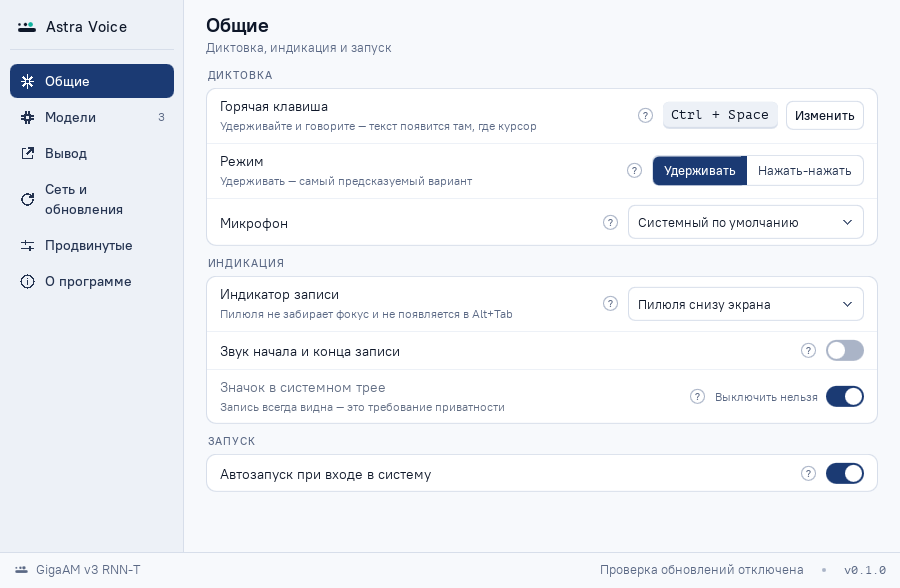
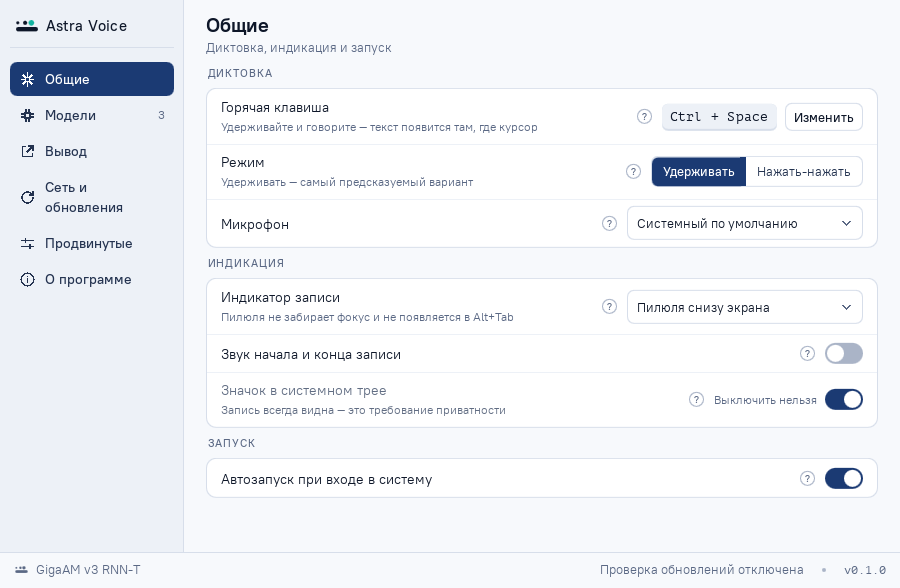
M1: карточки по border-box (последняя строка не режется, низ колонки 497), знак сайдбара по геометрии логотипа, CAPS-зазор; скриншоты; HEARTBEAT

diff --git a/qml/components/BrandMark.qml b/qml/components/BrandMark.qml
@@ -1,61 +1,59 @@
-// Знак Astra Voice: три точки и строка.
-// Геометрия — мастер 22 px (design/spec.md §9.1, design/tokens.json component.tray.geometry-22):
-// точки r 1.2185 / 1.6815 / 2.3151 на cy 8.4849, строка 2,12 18×4 rx 2.
-// Правило бренда: цвет несёт ТОЛЬКО третья точка; строка и точки 1–2 — цвет текста.
+// Знак Astra Voice: три точки и строка. Правило бренда — цвет несёт ТОЛЬКО третья точка.
+//
+// Две РАЗНЫЕ геометрии, их нельзя путать (обе из design/mockups/directions/_base.py):
+//   logo — знак в интерфейсе, `mark()`: viewBox 100 × 51.7238, ширина знака = вся ширина;
+//   tray — иконка состояния, `tray()` и design/spec.md §9.1: viewBox 22 × 22 со своей
+//          мастер-геометрией (уменьшать логотип до 16–22 px нельзя, радиусы «плывут»).
 import QtQuick 2.15
 
 Item {
     id: root
 
     property real size: 22
+    property bool tray: false
     property color color: "#000000"
-    // Цвет третьей точки: состояние (слушаю/распознаю/готово/ошибка). По умолчанию — как весь знак.
+    // Третья точка: состояние (слушаю / распознаю / готово / ошибка) либо акцент бренда.
     property color accentColor: root.color
 
-    readonly property real k: size / 22
+    readonly property real vbW: tray ? 22 : 100
+    readonly property real vbH: tray ? 22 : 51.7238
+    readonly property real k: size / vbW
+    // cx, cy, r в координатах viewBox
+    readonly property var dots: tray
+        ? [[3.4622, 8.4849, 1.2185], [9.4694, 8.4849, 1.6815], [14.5627, 8.4849, 2.3151]]
+        : [[8.1233, 12.8619, 6.7694], [41.4966, 12.8619, 9.3418], [69.7928, 12.8619, 12.8619]]
+    // x, y, w, h, rx
+    readonly property var bar: tray ? [2, 12, 18, 4, 2] : [0, 31.7238, 100, 20, 10]
 
     implicitWidth: size
-    implicitHeight: size
-    width: size
-    height: size
+    implicitHeight: vbH * k
+    width: implicitWidth
+    height: implicitHeight
 
-    Rectangle {
-        x: (3.4622 - 1.2185) * root.k
-        y: (8.4849 - 1.2185) * root.k
-        width: 2 * 1.2185 * root.k
-        height: width
-        radius: width / 2
-        color: root.color
-        antialiasing: true
+    Repeater {
+        model: root.dots
+
+        Rectangle {
+            required property int index
+            required property var modelData
+
+            x: (modelData[0] - modelData[2]) * root.k
+            y: (modelData[1] - modelData[2]) * root.k
+            width: 2 * modelData[2] * root.k
+            height: width
+            radius: width / 2
+            antialiasing: true
+            color: index === 2 ? root.accentColor : root.color
+        }
     }
 
     Rectangle {
-        x: (9.4694 - 1.6815) * root.k
-        y: (8.4849 - 1.6815) * root.k
-        width: 2 * 1.6815 * root.k
-        height: width
-        radius: width / 2
+        x: root.bar[0] * root.k
+        y: root.bar[1] * root.k
+        width: root.bar[2] * root.k
+        height: root.bar[3] * root.k
+        radius: root.bar[4] * root.k
+        antialiasing: true
         color: root.color
-        antialiasing: true
-    }
-
-    Rectangle {
-        x: (14.5627 - 2.3151) * root.k
-        y: (8.4849 - 2.3151) * root.k
-        width: 2 * 2.3151 * root.k
-        height: width
-        radius: width / 2
-        color: root.accentColor
-        antialiasing: true
-    }
-
-    Rectangle {
-        x: 2 * root.k
-        y: 12 * root.k
-        width: 18 * root.k
-        height: 4 * root.k
-        radius: 2 * root.k
-        color: root.color
-        antialiasing: true
     }
 }

diff --git a/qml/components/SettingGroup.qml b/qml/components/SettingGroup.qml
@@ -21,7 +21,6 @@ Column {
         font.capitalization: Font.AllUppercase
         font.letterSpacing: Theme.fontGroupCapsTracking * Theme.fontGroupCapsSize
         renderType: Text.NativeRendering
-        verticalAlignment: Text.AlignVCenter
         leftPadding: 2  // §3.1: отступ заголовка группы 0 0 5 2
         lineHeight: Math.round(Theme.fontGroupCapsSize * Theme.fontGroupCapsLineHeight)
         lineHeightMode: Text.FixedHeight
@@ -33,8 +32,11 @@ Column {
 
         property alias rowData: column.data
 
+        // Макет считает карточку по border-box (`*{box-sizing:border-box}`): рамка 1 px
+        // лежит ВНУТРИ габарита, строки живут в оставшихся 670 × N. Без этого запаса
+        // рамка съедала по пикселю у первой и последней строки.
         width: root.width
-        height: Math.round(column.implicitHeight)
+        height: Math.round(column.implicitHeight) + Theme.cardBorder * 2
         radius: Theme.cardRadius
         color: Theme.bgSurface
         antialiasing: true
@@ -42,8 +44,9 @@ Column {
 
         Column {
             id: column
-            width: parent.width
-            anchors.centerIn: parent
+            x: Theme.cardBorder
+            y: Theme.cardBorder
+            width: parent.width - Theme.cardBorder * 2
         }
 
         // Обводка рисуется ПОВЕРХ заливки карточки: в тёмной теме `border` — это

diff --git a/qml/components/AvButton.qml b/qml/components/AvButton.qml
@@ -23,7 +23,7 @@ Button {
     rightPadding: leftPadding
     topPadding: small ? Theme.buttonSmPaddingY : (ghost ? Theme.buttonGhostPaddingY : Theme.buttonPaddingY)
     bottomPadding: topPadding
-    implicitHeight: small ? Theme.buttonHeightSm : Theme.buttonHeight
+    implicitHeight: Math.round(small ? Theme.buttonHeightSm : Theme.buttonHeight)
     implicitWidth: contentRow.implicitWidth + leftPadding + rightPadding
     font.family: Theme.fontUi
     font.pixelSize: small ? Theme.fontButtonSmSize : Theme.fontButtonSize

diff --git a/qml/StatusBar.qml b/qml/StatusBar.qml
@@ -59,6 +59,7 @@ Item {
 
             BrandMark {
                 size: Theme.statusbarTrayIcon
+                tray: true  // иконка состояния — мастер-геометрия 22 (§9.1), не логотип
                 color: Theme.statusbarFg
                 Layout.alignment: Qt.AlignVCenter
             }

diff --git a/HEARTBEAT.md b/HEARTBEAT.md
@@ -1,6 +1,6 @@
 # HEARTBEAT — где мы сейчас
 
-> «Пульс» проекта astra-voice: подхватывается Юркой при старте сессии. **Обновлено:** 2026-09-09 17:10
+> «Пульс» проекта astra-voice: подхватывается Юркой при старте сессии. **Обновлено:** 2026-09-09 17:50
 
 ## Фаза
 **Разработка (Фаза 4), M0 спайки** — G0–G4 пройдены; execution-pack принят 2026-09-09.
@@ -17,18 +17,20 @@
 - 2026-09-07: рамки до PRD — оба режима обновления, PyQt5 из apt, пилюля по умолчанию с выключателем.
 - Codex CLI поднят до 0.153.4 — канал `gpt-6-astra` открыт для архитектора #2.
 
-## В работе (статус на 2026-09-09 17:10)
+## В работе (статус на 2026-09-09 17:50)
 - **M0 по KDE закрыт**; **M0 Fly** ждёт перелогина заказчика.
-- **M1 сдан и на GitHub** (A/B/C, CI e03d6ae зелёный 5/5; `.deb` 0.1.0~m1 на `~/Desktop`, заказчик поставил через apt).
-  **Живой показ — дефекты в работе**: скругления/фокус-кольцо/подписи ✅ (902fe2c); `app.py` (тема в QML, закрытие, `show`
-  свёрнутого, settings.json, WM_CLASS) — M1-A; `XDG_CONFIG_HOME` в теме — M1-C; **мерцание при hover сайдбара** — Debugger;
-  **RSS 168 МБ > 120** — после Debugger (Optimizer). DesignReviewer сверяет `design/refs/impl/`; UX-analyst — спека 0.3
-  «тексты простым языком» + список технических подписей на 48 экранах.
-- Правило заказчика: тексты интерфейса простым языком (память `feedback_ui_copy_plain_language`).
+- **M1 — сборка 0.1.0~m1.1 на `~/Desktop`** (коммит `c5f902f`, CI на проверке): закрыты дефекты живого показа — тема в QML,
+  закрытие/`show`, settings.json, WM_CLASS, скругления/фокус/чип, подписи простым языком, **hover без анимации** (то, что
+  заказчик принял за мерцание), 12 метрик DesignReviewer, tokens 2.1.4, спека 0.3 (правило 7 «простым языком», правило motion),
+  12 экранов макета и 30 референсов пересняты 1:1. Ждёт переустановки у заказчика и его взгляда.
+- Открыто по M1: **RSS 168 МБ > 120** (Optimizer, замер до/после), повторная сверка DesignReviewer по новым снимкам,
+  токены `motion.*.hover` переименовать (design-engineer), версии библиотек перенести на экран «Отладка» (UX), 2 технические
+  фразы («Потоки распознавания (ORT)», «командой astra-voice» в диалоге трея) — решить.
 
 ## Следующий шаг
-1. Закрыть дефекты живого показа → пересборка `.deb` → заказчик переустанавливает → повторный живой прогон (с его «ок») → M1 ✅.
-2. M2 воркер/движок; M0 Fly при перелогине; мастер-ключ заказчика до 25.09.
+1. Заказчик ставит `0.1.0~m1.1` (`sudo apt install ~/Desktop/astra-voice_0.1.0~m1.1_amd64.deb`) → смотрит: тёмная тема, чип,
+   наведение, повторный запуск → M1 приёмка живьём.
+2. Optimizer RSS; DesignReviewer повтор; затем **M2 воркер/движок**; M0 Fly при перелогине.
 
 ## Открытые СТОП-точки
 - нет (следующая — G5 на первый релиз v0.1).
